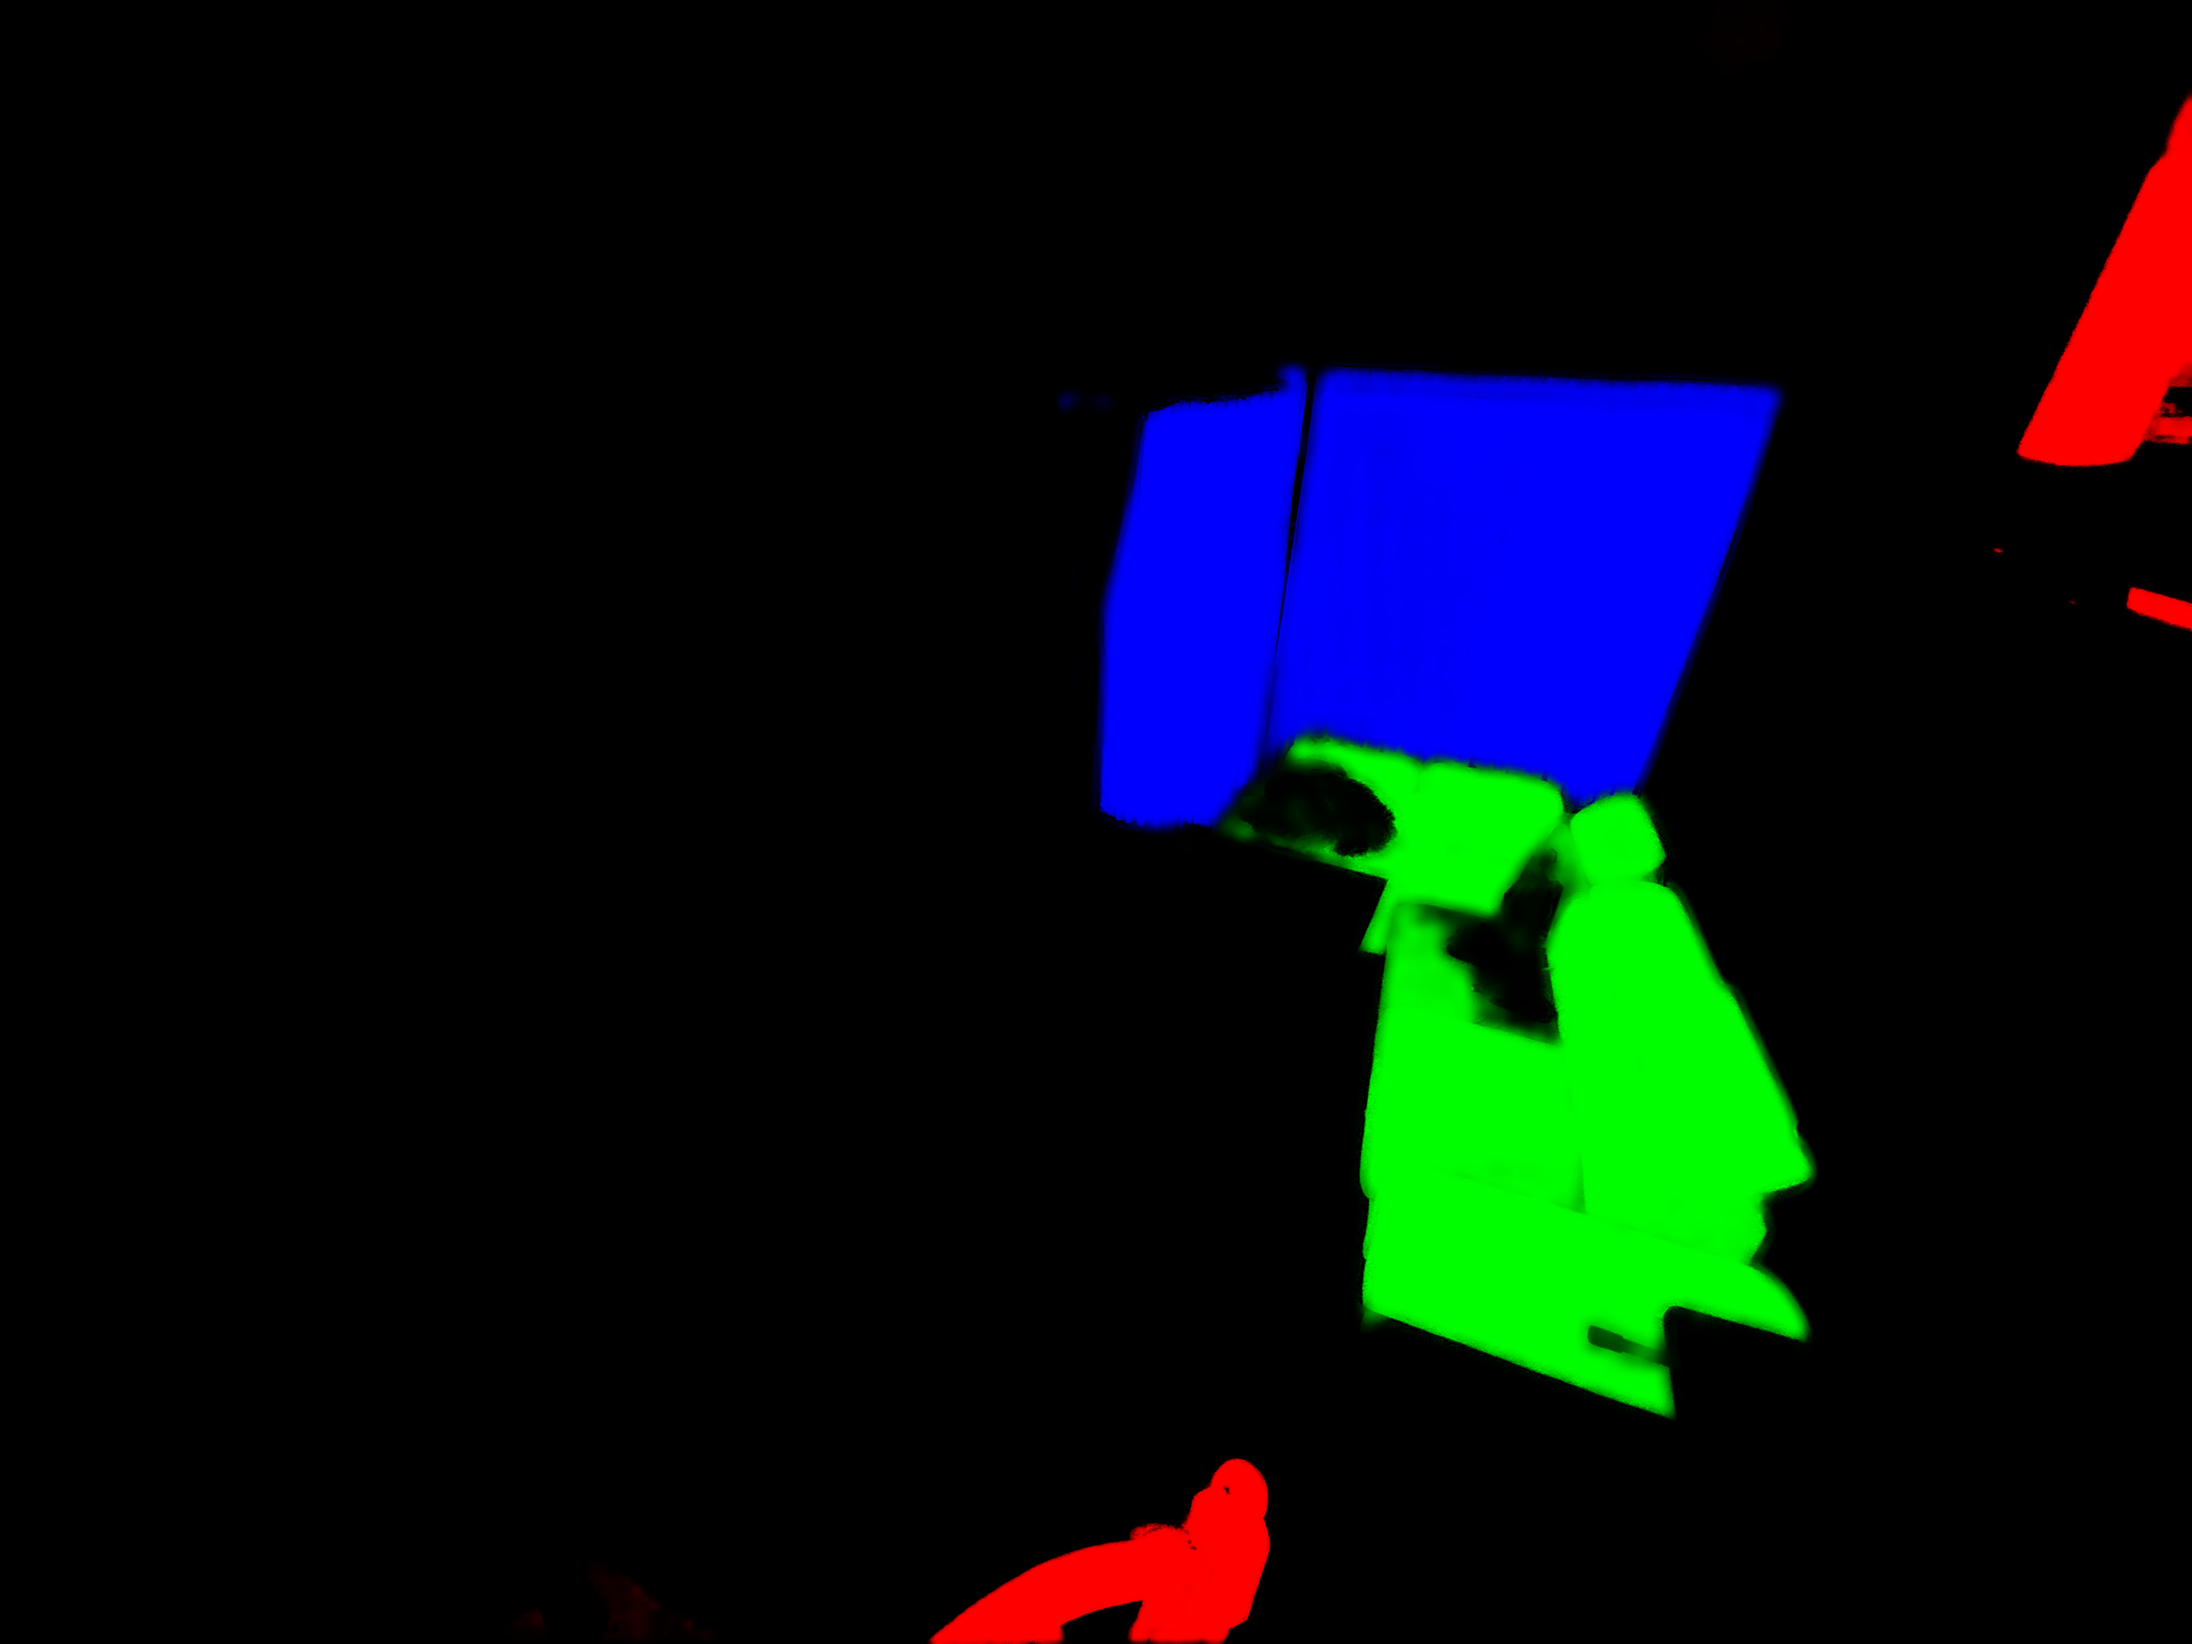
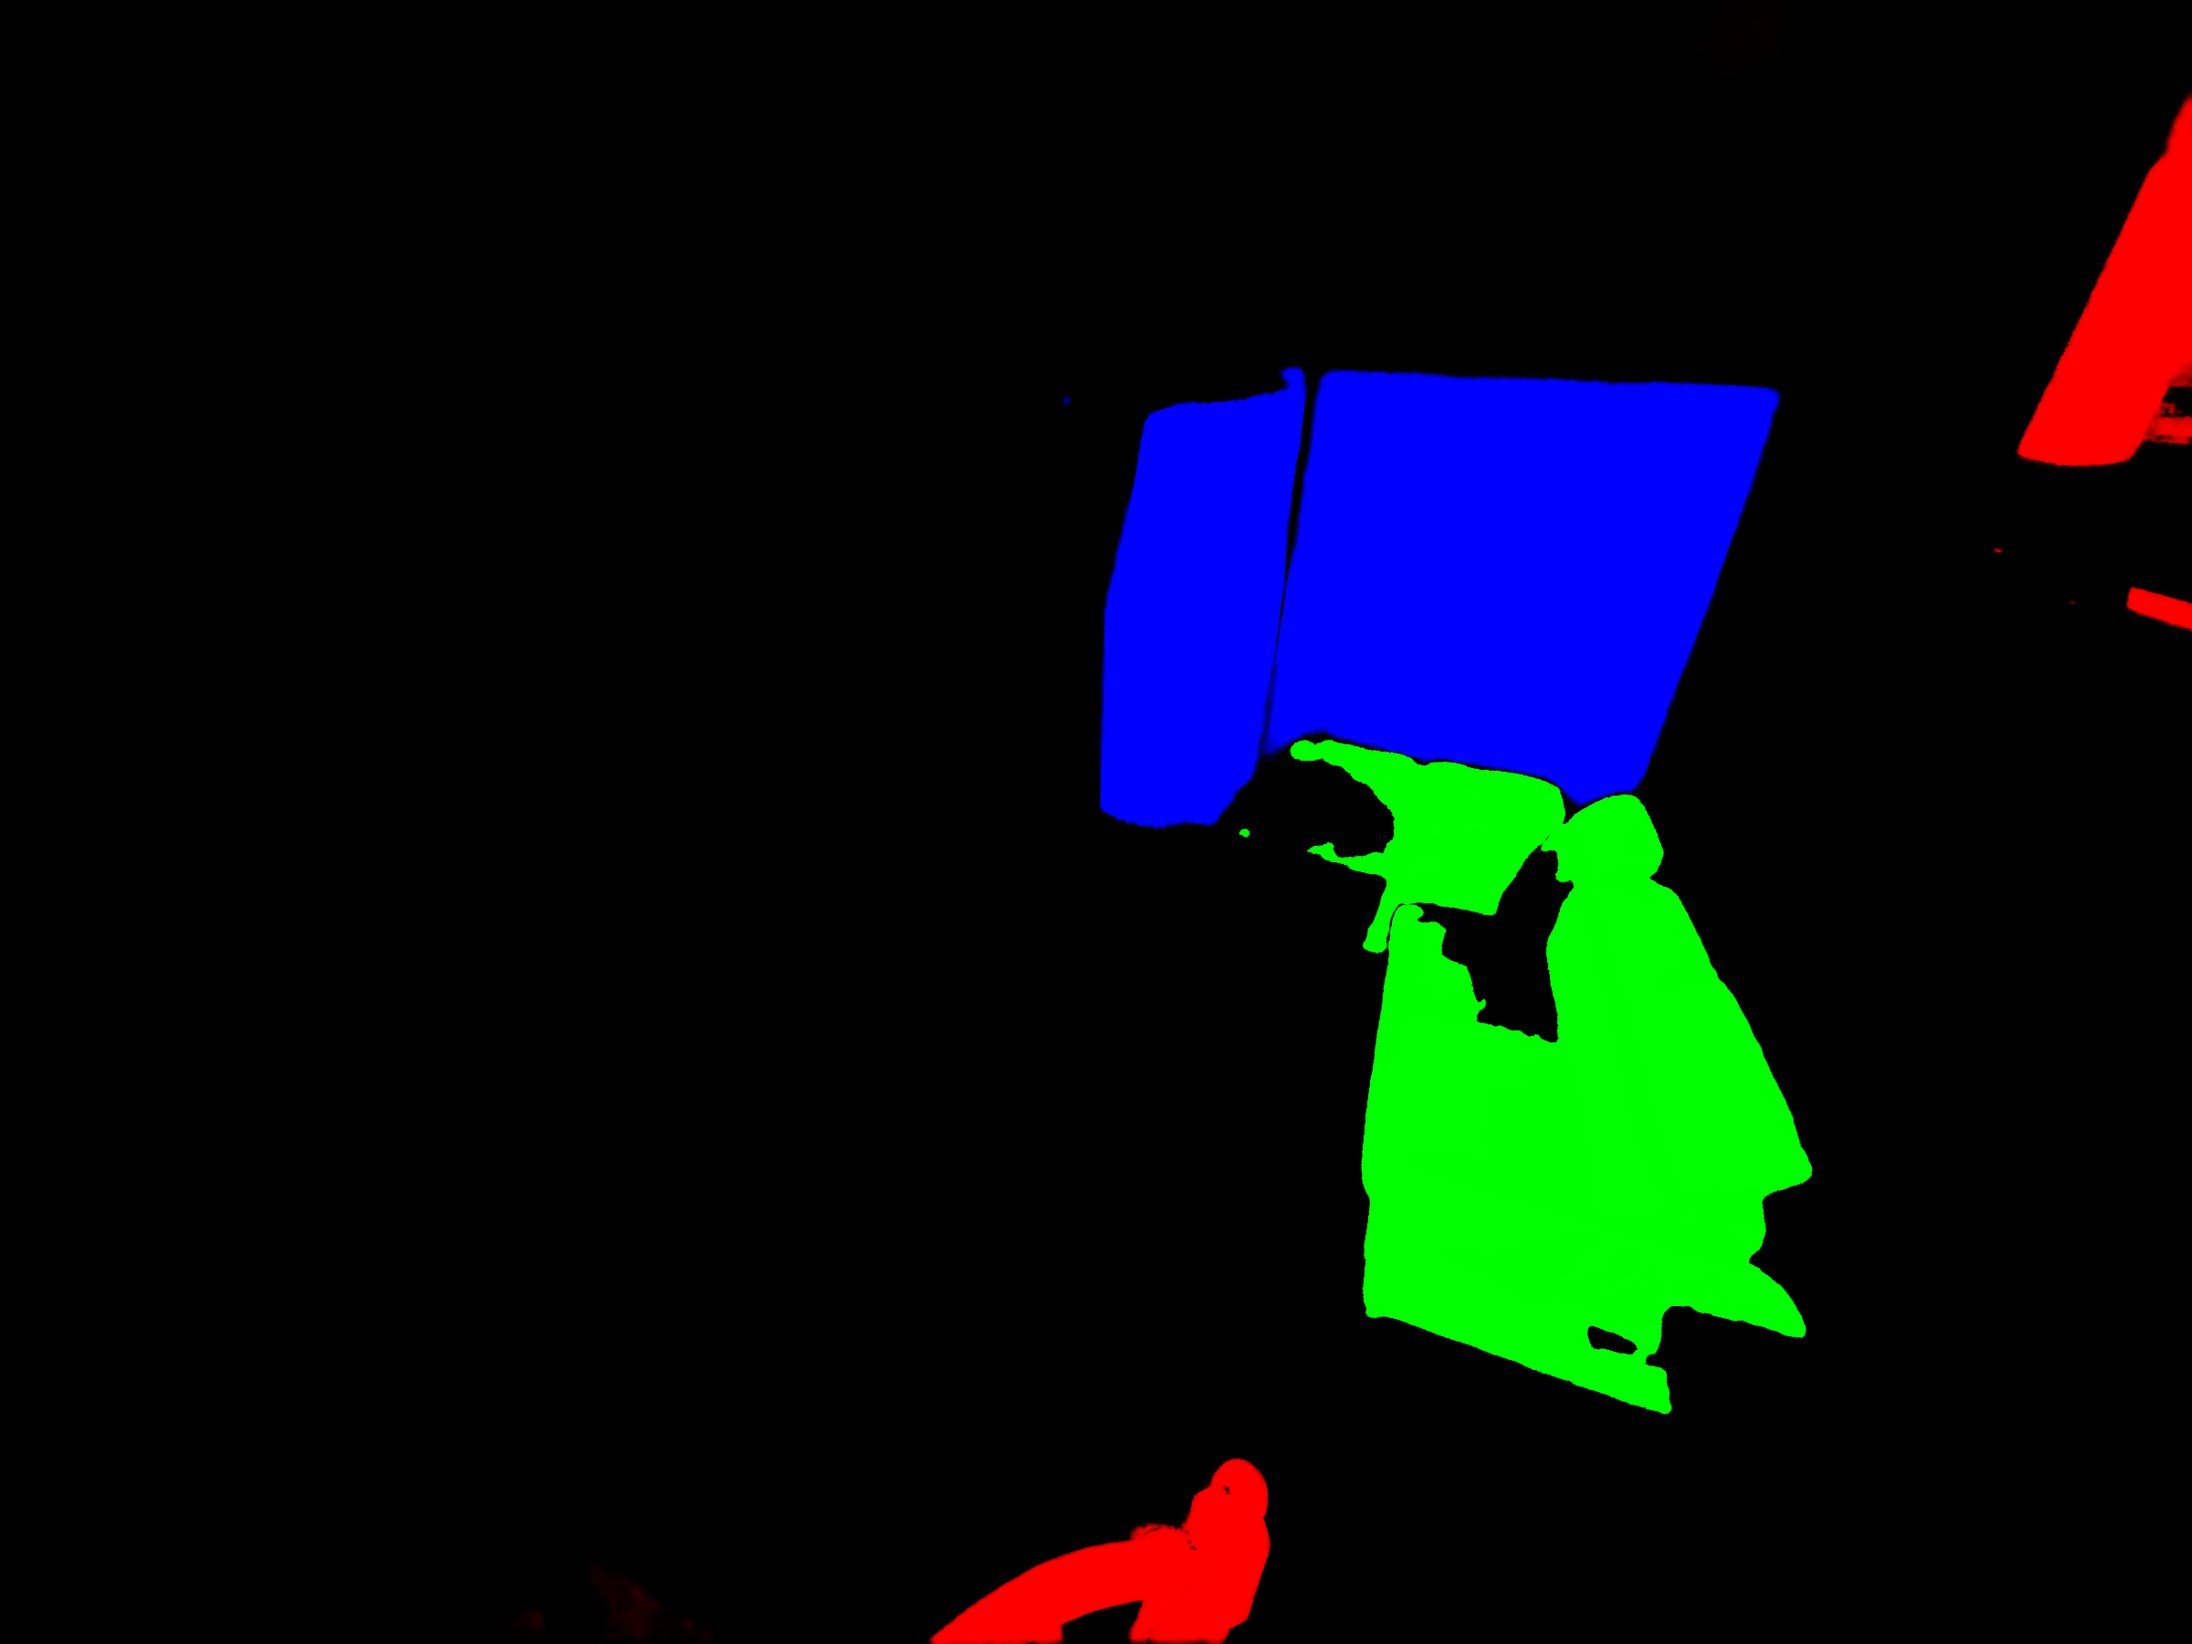
Tight floor/sofa mattes, p87 column wall, sofa texture-preserving recolor

diff --git a/index.html b/index.html
@@ -68,7 +68,7 @@ void main(){vec3 o=lin(texture2D(ph,v).rgb);float L=lum(o);
      vec3 t=lin(texture2D(ft,uv).rgb);if(stainOn>.5)t=lin(stain)*(lum(t)/tmean)*.9;
      float sh=min(Ls/mean[1],2.2)*pow(det,.18);float spec=max(0.,Ls/mean[1]-1.3)*.35+max(0.,det-1.25)*.25;c=mix(c,t*sh/1.05+spec*.25,w[1]);}
    else if(fmode>.5)c=mix(c,lin(col[1])*min(L/mean[1],3.),w[1]);
-  } else if(on[i]>.5){vec3 nc=(i==3)?lin(col[i])*pow(min(Ls/mean[i],4.),.8)*pow(det,.55):lin(col[i])*min(L/mean[i],3.);c=mix(c,nc,w[i]);} }
+  } else if(on[i]>.5){vec3 nc=(i==3)?lin(col[i])*pow(min(Ls/mean[i],4.),.8)*pow(det,.55):(i==4)?lin(col[i])*pow(min(Ls/mean[i],3.),.9)*pow(det,.8):lin(col[i])*min(L/mean[i],3.);c=mix(c,nc,w[i]);} }
  if(on[7]>.5)c=mix(c,lin(col[7])*min(L/mean[0],3.),wa);
  c*=lt;if(dark>0.){float d=distance(v,vec2(.5,.25));c*=mix(1.,.35+.9*exp(-d*d*6.),dark);}
  float lc=lum(c);if(lc>.75){float t=.75+.25*(1.-exp(-(lc-.75)/.25));c*=t/lc;}gl_FragColor=vec4(srgb(c),1);}`;
